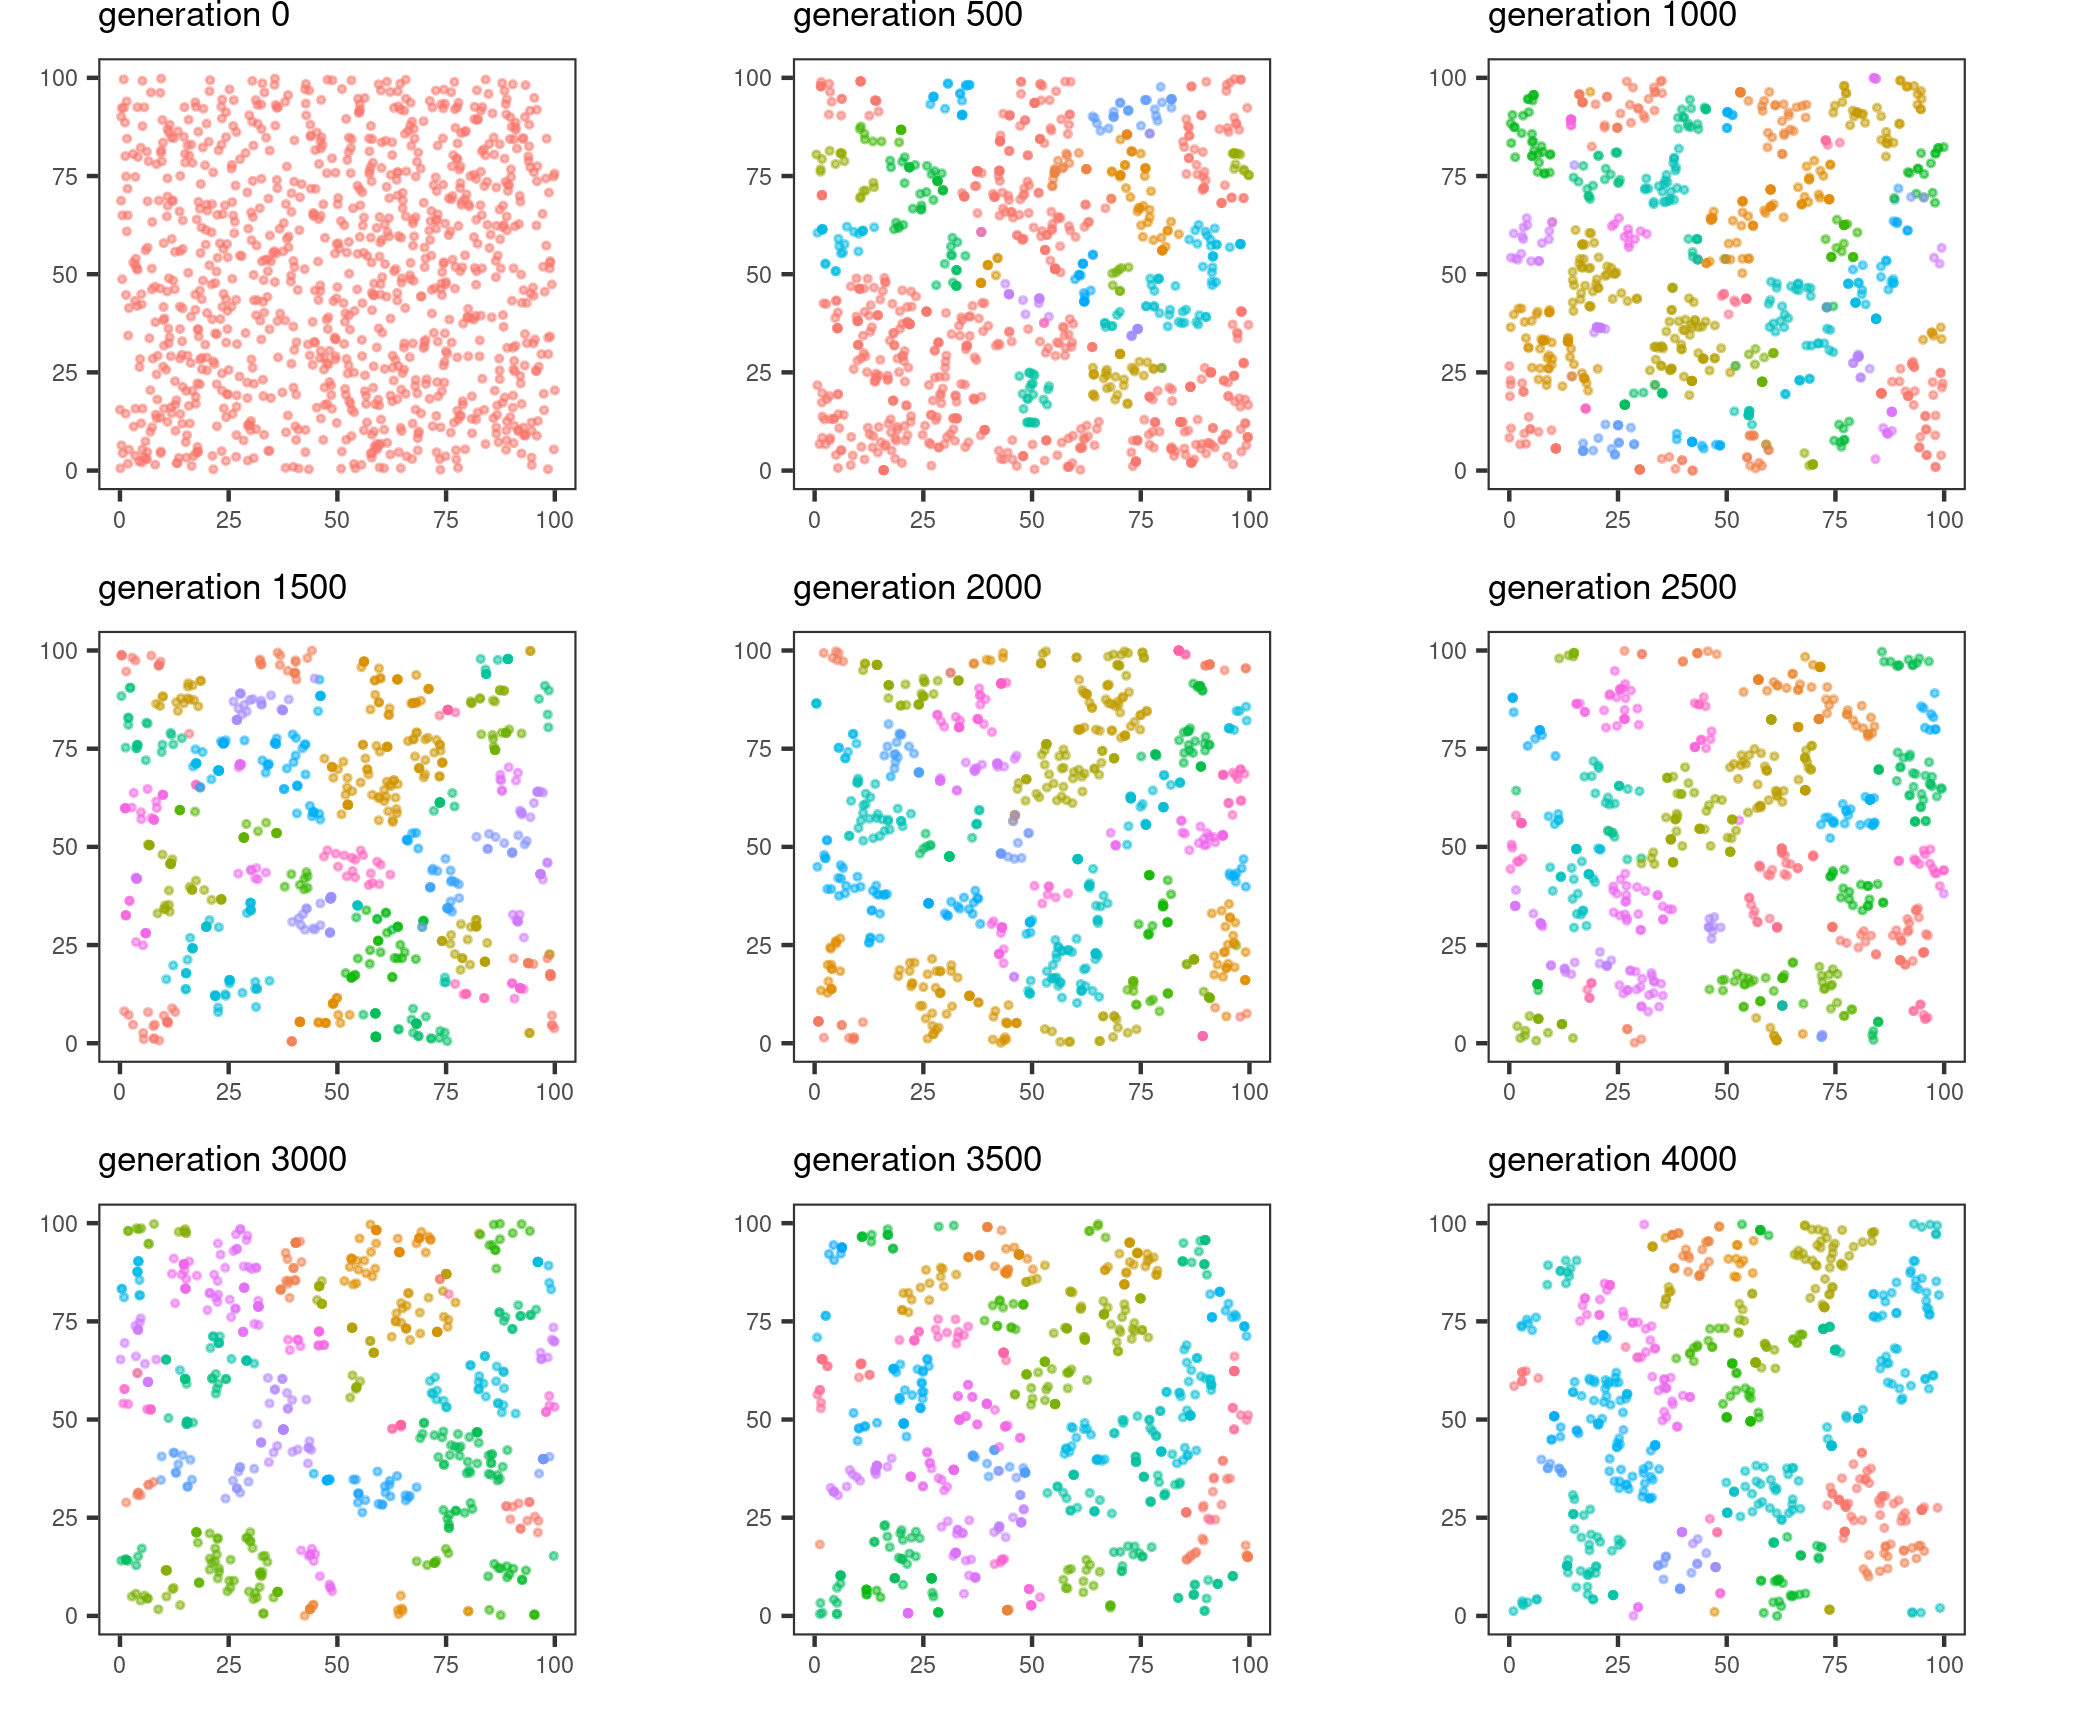
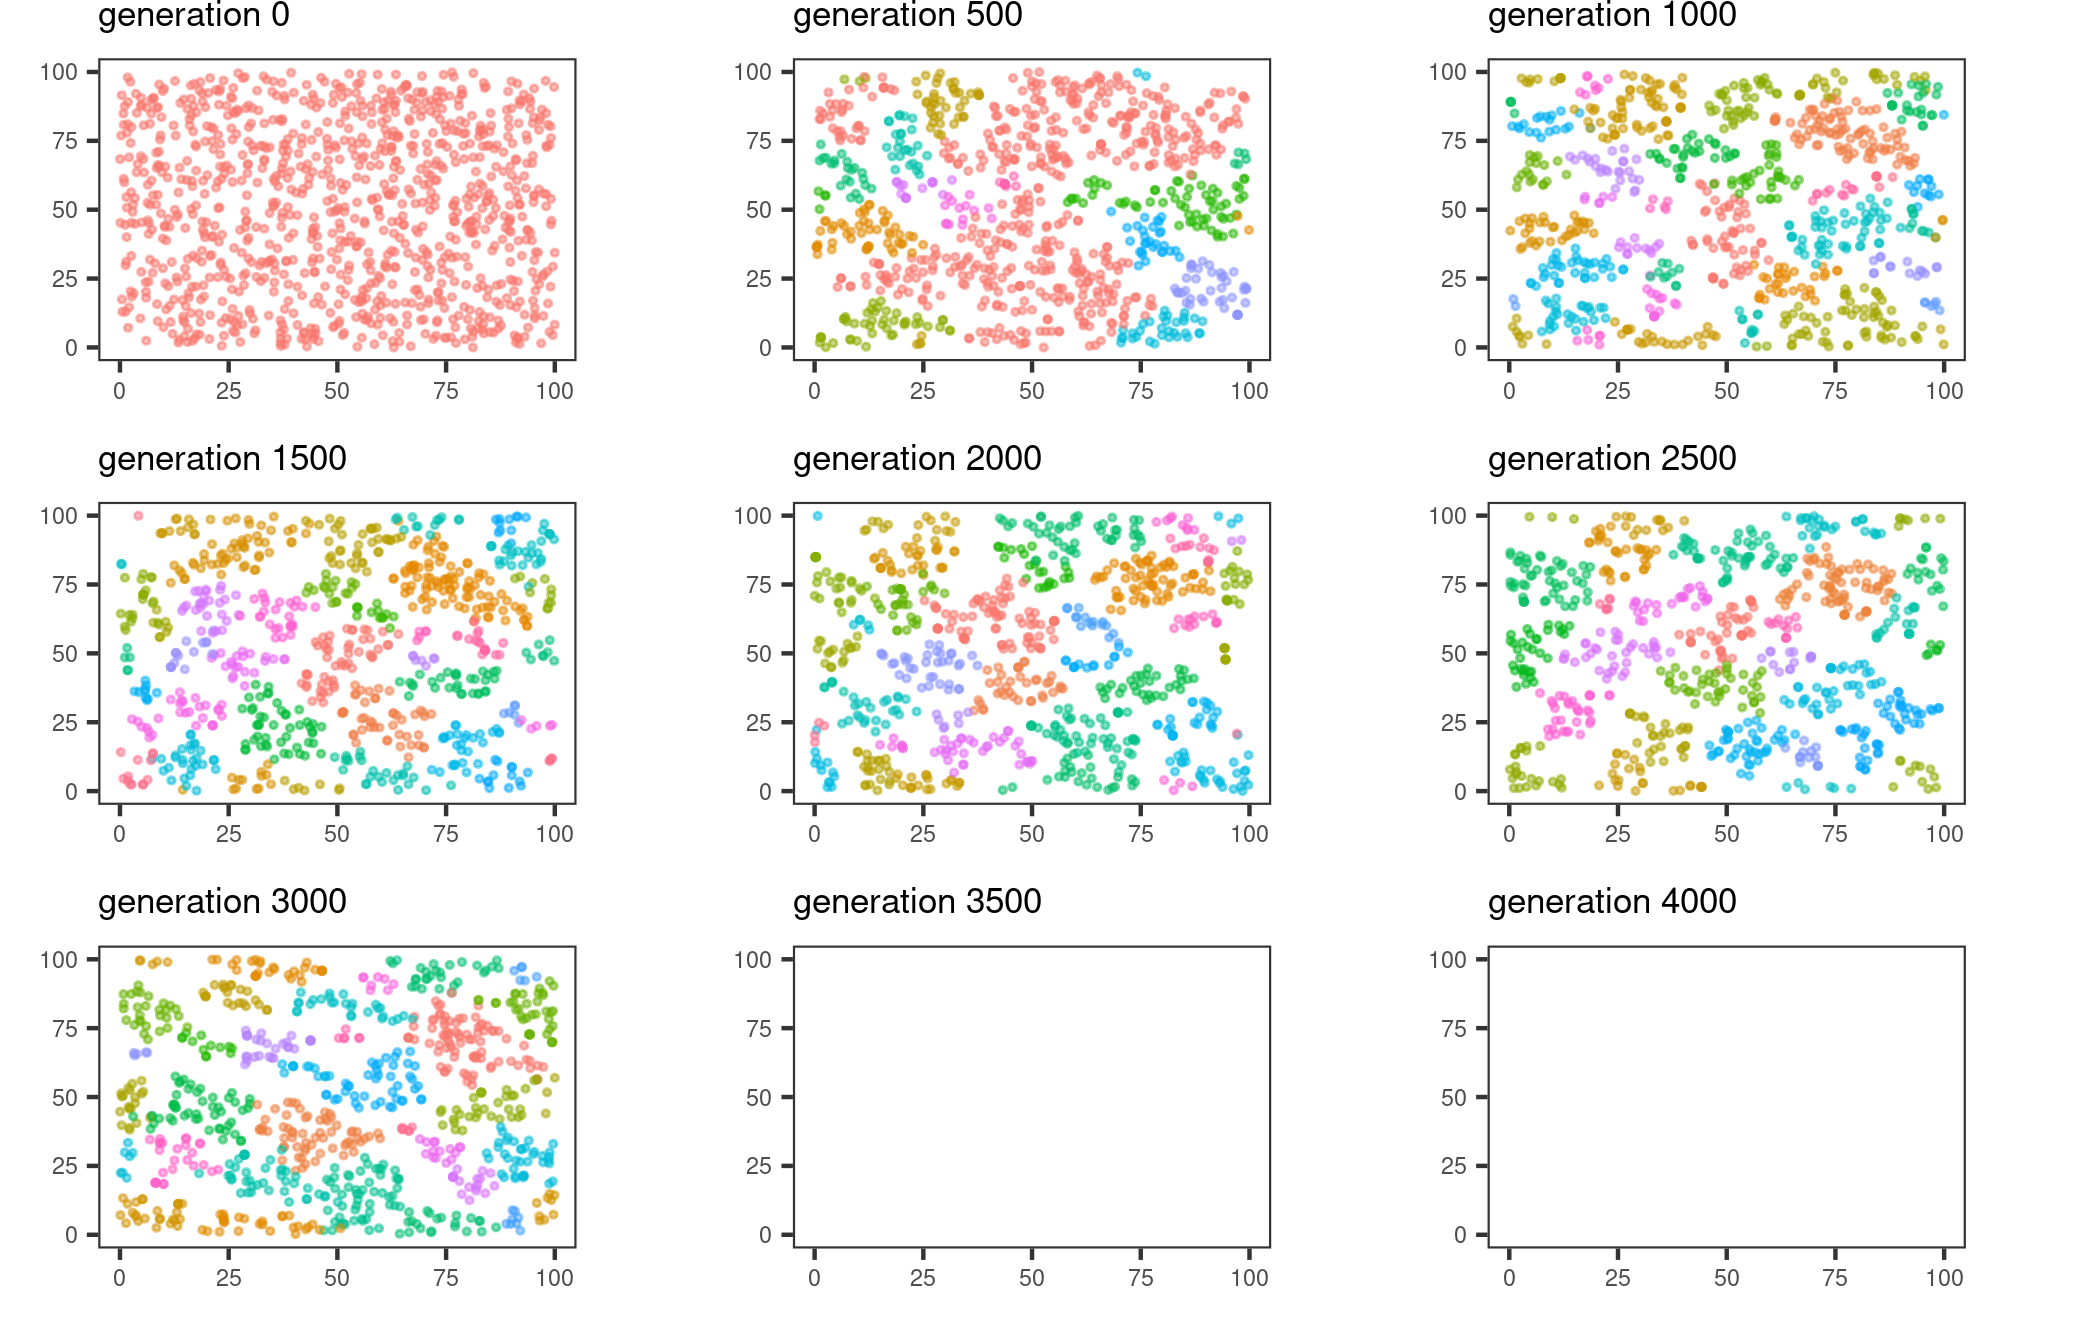
Possible final version

diff --git a/functions.c b/functions.c
@@ -87,6 +87,7 @@
 	void Neighborhood (Graph G, Population progenitors, int focal, Parameters info, int increase)
 	{
 		int i;
+
 		RestartList (&progenitors[focal]->compatible_neighbors);
 		RestartList (&progenitors[focal]->spatial_neighbors);
 
@@ -137,6 +138,33 @@
 		}
 	}
 
+	int Sort_Neighbor (Population progenitors, int i) 
+	{
+		int j, k, compatible_neighbors, all, other;
+		List p;
+
+		compatible_neighbors = Verify_Neighborhood (progenitors[i]->compatible_neighbors);
+		all = compatible_neighbors + Verify_Neighborhood (progenitors[i]->spatial_neighbors);
+
+		if (all) {
+			k = rand_1ton (all);
+			if (k <= compatible_neighbors)
+				for (j = 1, p = progenitors[i]->compatible_neighbors->next; p != NULL && j < k; p = p->next, j++);
+			else {
+				k -= compatible_neighbors;
+				for (j = 1, p = progenitors[i]->spatial_neighbors->next; p != NULL && j < k; p = p->next, j++);	
+			}
+
+			if (j == k && p != NULL) {
+				other = p->info;
+			}
+			else other = -1;
+		}
+		else other = -1;
+
+		return other;
+	}
+
 	int Site_Occupation (Graph G, Population progenitors, int focal, Parameters info) 
 	{
 		int i, occupation;
@@ -168,7 +196,7 @@
 		info->individual_vector_size = (int)(info->number_individuals * 2);
 		info->reproductive_distance  = 7;
 		info->genome_size            = 150;
-		info->number_generations     = 3000;
+		info->number_generations     = 500;
 		info->lattice_length         = 100;
 		info->lattice_width          = 100;
 		info->radius                 = 5;
@@ -345,52 +373,49 @@
 
 	int Choose_Other (Graph G, int focal, Population progenitors, Parameters info, int increase)
 	{
-		int j, i, all, compatible_neighbors, spatial_neighbors, compatible_expand, spatial_expand, other_neighborhood, radius_increase, other, n;
+		int j, i, all, compatible_neighbors, radius_increase, other, n;
 		List p;
-		List bigger_neighborhood;
+		int changed[G->U];
 
-		radius_increase = increase;
-		other = -1;
-		other_neighborhood = 0;
+		radius_increase = 0;
+		compatible_neighbors = 0;
+		all = 0;
 
-		while (radius_increase <= info->max_increase && other == -1) {
-			if (radius_increase > increase) {
-				Expand_Neighborhood (G, progenitors, focal, info, radius_increase);
-			}
+		for (i = 0; i < G->U; ++i) {
+			changed[i] = 0;
+		}
 
-			compatible_neighbors = Verify_Neighborhood (progenitors[focal]->compatible_neighbors);
-			all = compatible_neighbors + Verify_Neighborhood (progenitors[focal]->spatial_neighbors);
-
-
-			for (n = 0; n < 2 && other_neighborhood < 2; ++n) {				
-				if (all) {
-					i = rand_1ton (all);
-					if (i <= compatible_neighbors)
-						for (j = 1, p = progenitors[focal]->compatible_neighbors->next; p != NULL && j < i; p = p->next, j++);
-					else {
-						i -= compatible_neighbors;
-						for (j = 1, p = progenitors[focal]->spatial_neighbors->next; p != NULL && j < i; p = p->next, j++);	
-					}
-
-					if (j == i && p != NULL) {
-						other = p->info;
-						if (radius_increase > 0){
-							Compatible_Neighborhood (G, progenitors, other, info, radius_increase);
-						}
-						other_neighborhood = Verify_Neighborhood (progenitors[other]->compatible_neighbors);
-						if (other_neighborhood < 2) {
-							Compatible_Neighborhood (G, progenitors, other, info, 0);
-						}
-					} 
-					else other = -1;
-				}
-				else other = -1;
-			}
-			if (other == -1) {
-				radius_increase += 1;
-			} 
+		other = Sort_Neighbor (progenitors, focal);
+		if (other != -1) {
+			compatible_neighbors = Verify_Neighborhood (progenitors[other]->compatible_neighbors);
+			all = compatible_neighbors + Verify_Neighborhood(progenitors[other]->spatial_neighbors);
 		}
 		
+		n = 0;
+		while (compatible_neighbors < 2 && radius_increase < info->max_increase) {
+			if (n > 1) {
+				radius_increase++;
+				n = 0;
+				other = focal;
+				if (radius_increase > increase) {
+					Expand_Neighborhood (G, progenitors, focal, info, radius_increase);
+				}
+			}
+			other = Sort_Neighbor (progenitors, other);
+			if (other != -1) {
+				Neighborhood (G, progenitors, other, info, radius_increase);
+				changed[other] = 1;
+				compatible_neighbors = Verify_Neighborhood (progenitors[other]->compatible_neighbors);
+				all = compatible_neighbors + Verify_Neighborhood (progenitors[other]->spatial_neighbors);
+			}
+			n++;
+		}
+
+		for (i = 0; i < G->U; ++i) {
+			if (changed[i] && i != focal && i != other)
+				Neighborhood (G, progenitors, i, info, 0);
+		}
+
 		return other;
 	}
 
@@ -403,19 +428,19 @@
 
 		mate = -1;
 
-			neighbors = Verify_Neighborhood (progenitors[focal]->compatible_neighbors);
+		neighbors = Verify_Neighborhood (progenitors[focal]->compatible_neighbors);
 
-			if (neighbors) {
-				i = rand_1ton (neighbors);
-				
-				for (j = 1, p = progenitors[focal]->compatible_neighbors->next; p != NULL && j < i; p = p->next, j++);
-				
-				if (j == i && p != NULL) {
-					mate = p->info;
-				} 
-				else mate = -1;
-			}
+		if (neighbors) {
+			i = rand_1ton (neighbors);
+			
+			for (j = 1, p = progenitors[focal]->compatible_neighbors->next; p != NULL && j < i; p = p->next, j++);
+			
+			if (j == i && p != NULL) {
+				mate = p->info;
+			} 
 			else mate = -1;
+		}
+		else mate = -1;
 
 		return mate;
 	}
@@ -454,12 +479,12 @@
 					other_neighborhood = Verify_Neighborhood (progenitors[other]->compatible_neighbors);
 					if (random_number() < 0.37 || compatible_neighborhood < info->min_neighboors) {
 						other = Choose_Other (G, focal, progenitors, info, increase);
-						other_neighborhood = Verify_Neighborhood (progenitors[other]->compatible_neighbors);
+						if (other != -1) other_neighborhood = Verify_Neighborhood (progenitors[other]->compatible_neighbors);
+						else other_neighborhood = 0;
 					}
 					mate = -1;
 					if (other != -1 && other_neighborhood > 1) {
 						mate = Choose_Mate (G, other, progenitors, info);
-						Compatible_Neighborhood (G, progenitors, other, info, 0);
 					}
 					if (mate != -1 && other != -1) {
 						Create_Offspring (progenitors, offspring, baby, focal, other, mate, info);
@@ -468,6 +493,7 @@
 				}
 				if (increase > 0) {
 					Neighborhood (G, progenitors, focal, info, 0);
+					if (other != focal && other != -1)Neighborhood (G, progenitors, other, info, 0);
 				}
 			}
 		}

diff --git a/main.c b/main.c
@@ -61,7 +61,7 @@ int main()
           }
         }
       }
-      if (i%100 == 0) {
+      if (i%1 == 0) {
         printf("GENERATION: %d\n", i);
         printf("pop size: %d\n", G->U);
         printf("NUMBER OF SPECIES = %d\n", number_species);
